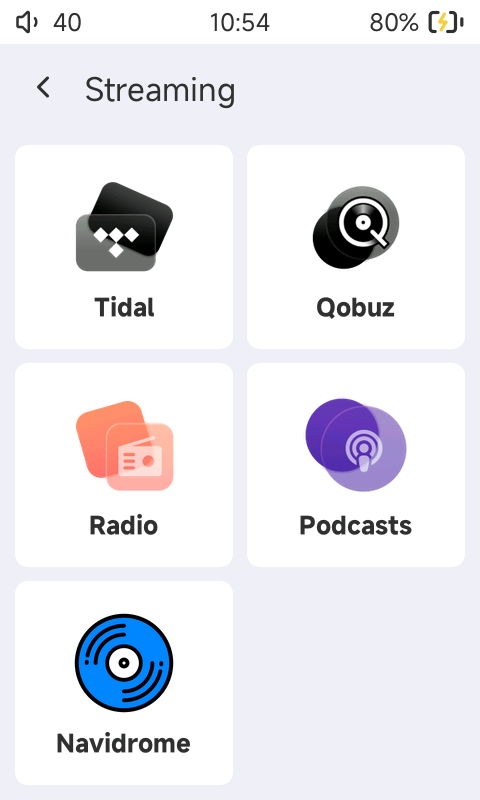
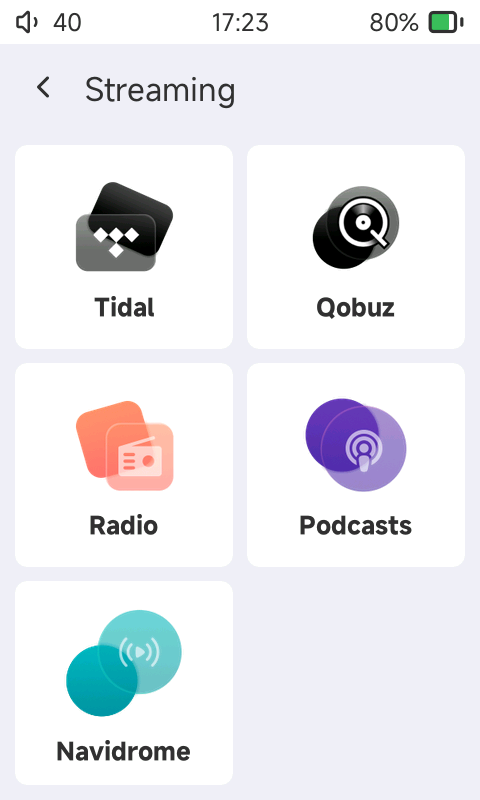
streaming: match the Navidrome tile shown in #253
Use the same streaming icon and neutral card as the example in #253, labeled
Navidrome. Screenshots updated.

(cherry picked from commit a094059852d4c3eb91e1bbbaa451e6b8f7c6998b)

Changed region(s): [[0.125, 0.75, 0.4062, 0.9688], [0.4375, 0.0, 0.5625, 0.0625], [0.875, 0.0, 0.9375, 0.0625]]

diff --git a/sonix-player/src/gui/streaming/streaming.c b/sonix-player/src/gui/streaming/streaming.c
@@ -30,7 +30,7 @@ void streaming_init(gui_config_t *cfg) {
 		{"radio", &icon_menu_radio, &radiopage_screen, NULL},
 		{"podcasts", &icon_menu_podcast, &podcast_screen, NULL},
 		{"audiobookshelf", &icon_menu_audiobooks, &audiobookshelf_screen, NULL},
-		{"subsonic", &icon_menu_navidrome, &subsonic_screen, NULL},
+		{"subsonic", &icon_menu_streaming, &subsonic_screen, NULL},
 	};
 
 	// Two columns and three rows of tile, exactly like Music and Wireless, so a
